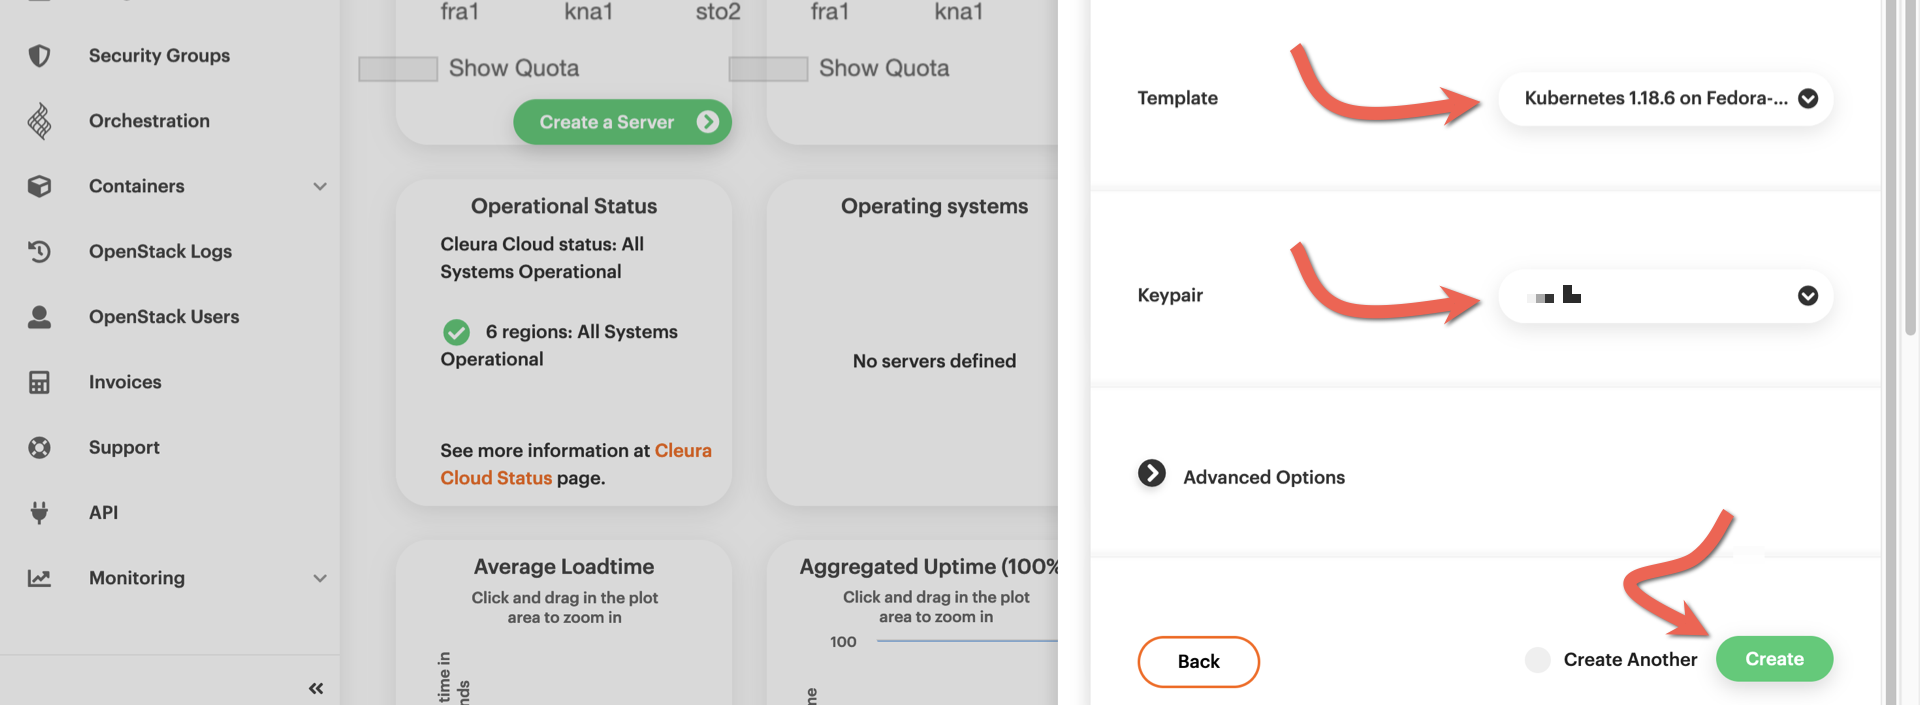
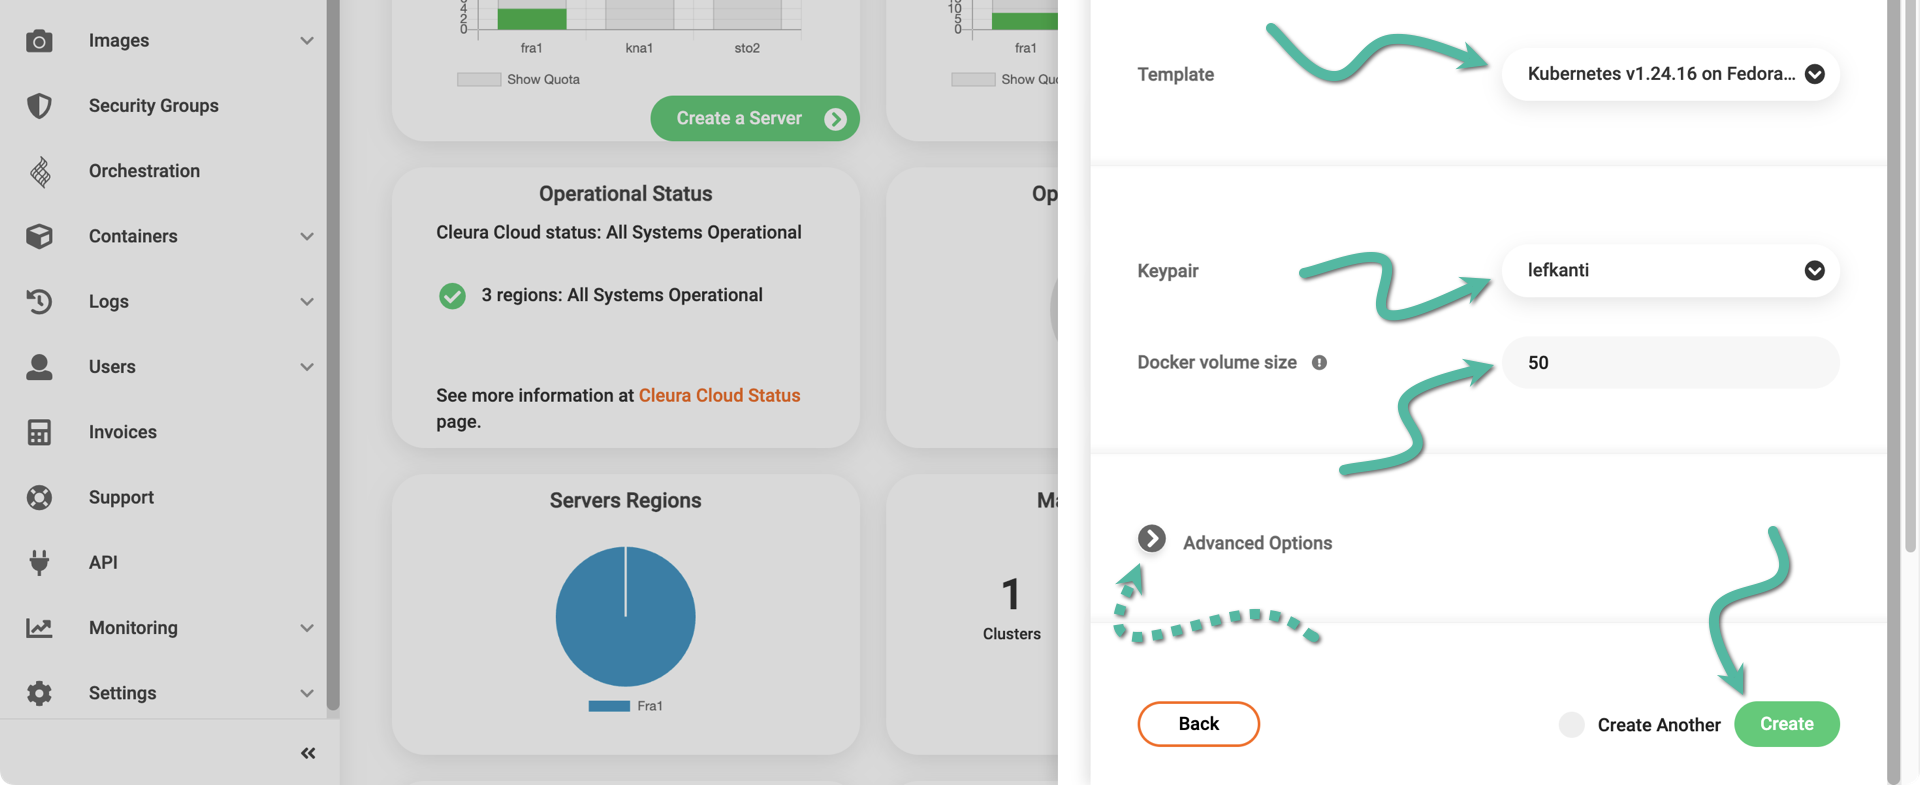
fix: Refresh Magnum cluster creation HowTo
There are new public templates available for creating
Magnum clusters, so we make sure the corresponding
HowTo guide is up-to-date.

diff --git a/docs/howto/openstack/magnum/new-k8s-cluster.md b/docs/howto/openstack/magnum/new-k8s-cluster.md
@@ -45,17 +45,31 @@ package manager of your operating system or `pip`:
 
     ![Name and region](assets/shot-02.png)
 
-    A bit further below, use the drop-down menus to select a template and a
-    keypair for the cluster nodes. Then, click the green *Create* button.
+    A bit further below, use the drop-down menus to select a template and a keypair for the cluster nodes.
+    Notice the *Docker volume size* option which, by default, is set to 50 GiB.
+    This pertains to the size of the extra block device each cluster node will have.
+    That whole storage capacity will be used for saving persistent data.
+    If you believe the default size is too much or too little, change it accordingly.
+    Unless you want to define the number of master nodes or the number of worker nodes, click the green *Create* button now.
 
     ![Select template and keypair](assets/shot-03.png)
 
-    The cluster creation process begins and takes some time to complete.
-    While waiting, bring the vertical pane on the left-hand side of the
-    {{gui}} in full view, select *Magnum* → *Clusters*, and in the main
-    pane, take a look at the creation progress. You can tell when the whole
-    process is complete by the icon at the left of the cluster row, or by
-    the text in the *Status* column.
+    If you do want to play with the aforementioned parameters, then before
+    clicking the *Create* button go ahead and expand the *Advanced Options*
+    section. Since the new cluster templates come with the master load
+    balancer enabled by default, you might want to equip your new cluster
+    with 3 master nodes. Optionally, increase the number of worker nodes
+    from 1 (the default) to, say, 3. Contrary to the number of master nodes,
+    you may change the number of worker nodes *after* the cluster is created.
+
+    ![Cluster creation in progress](assets/shot-03.1.png)
+
+    When the cluster creation process begins, please keep in mind that it
+    takes some time to complete. While waiting, bring the vertical pane on
+    the left-hand side of the {{gui}} in full view, select
+    *Magnum* → *Clusters*, and in the main pane, take a look at the creation
+    progress. You can tell when the whole process is complete by the animated
+    icon at the left of the cluster row.
 
     ![Magnum cluster ready](assets/shot-04.png)
 === "OpenStack CLI"
@@ -66,86 +80,128 @@ package manager of your operating system or `pip`:
     openstack coe cluster create \
         --cluster-template $CLUSTER_TMPL \
         --keypair $KEYPAIR \
+        --docker-volume-size $PERSIST_VOL_SIZE \
         $CLUSTER_NAME
     ```
 
-    You can now list all available templates in the region:
+    First, list all available templates in the region:
 
-    ```bash
-    openstack coe cluster template list
+    ```console
+    $ openstack coe cluster template list
+    +--------------------------------------+---------------------------------------------+------+
+    | uuid                                 | name                                        | tags |
+    +--------------------------------------+---------------------------------------------+------+
+    | 3f476f01-b3de-4687-a188-6829ed947db0 | Kubernetes 1.15.5 on Fedora-atomic 29       | None |
+    |                                      | 4C-8GB-20GB No Master LB                    |      |
+    | c458f02d-54b0-4ef8-abbc-e1c25b61165a | Kubernetes 1.15.5 on Fedora-atomic 29       | None |
+    |                                      | 2C-4GB-20GB No Master LB                    |      |
+    | f9e1a2ea-b1ff-43e7-8d1e-6dd5861b82cf | Kubernetes 1.18.6 on Fedora-coreos 33       | None |
+    |                                      | 2C-4GB-20GB No Master LB                    |      |
+    | 59bd894b-0f5f-4a6e-98d3-a3eb7040faab | Kubernetes v1.23.3 on Fedora-coreos 35      | None |
+    | 9ca03308-996e-4eaa-b507-5730dcc19fcc | Kubernetes v1.24.16 on Fedora-coreos 37     | None |
+    +--------------------------------------+---------------------------------------------+------+
     ```
 
-    ```plain
-    +--------------------------------------+----------------------------------------------------------------+------+
-    | uuid                                 | name                                                           | tags |
-    +--------------------------------------+----------------------------------------------------------------+------+
-    | 3f476f01-b3de-4687-a188-6829ed947db0 | Kubernetes 1.15.5 on Fedora-atomic 29 4C-8GB-20GB No Master LB | None |
-    | c458f02d-54b0-4ef8-abbc-e1c25b61165a | Kubernetes 1.15.5 on Fedora-atomic 29 2C-4GB-20GB No Master LB | None |
-    | f9e1a2ea-b1ff-43e7-8d1e-6dd5861b82cf | Kubernetes 1.18.6 on Fedora-coreos 33 2C-4GB-20GB No Master LB | None |
-    +--------------------------------------+----------------------------------------------------------------+------+
-    ```
+    Select the template you want by setting the corresponding `name`
+    value to the `CLUSTER_TMPL` variable:
 
-    Select the template you want by setting the corresponding `uuid`
-    value to the  `CLUSTER_TMPL` variable:
-
-    ```bash
-    CLUSTER_TMPL="f9e1a2ea-b1ff-43e7-8d1e-6dd5861b82cf" # just an example
+    ```console
+    $ CLUSTER_TMPL="Kubernetes v1.24.16 on Fedora-coreos 37"
     ```
 
     Then, list all available keypairs...
 
-    ```bash
-    openstack keypair list
+    ```console
+    $ openstack keypair list
+    +----------+-------------------------------------------------+------+
+    | Name     | Fingerprint                                     | Type |
+    +----------+-------------------------------------------------+------+
+    | lefkanti | e7:e9:c5:95:ee:7b:72:37:3c:89:c5:fc:6e:8c:a1:72 | ssh  |
+    +----------+-------------------------------------------------+------+
     ```
 
-    ```plain
-    +---------+-------------------------------------------------+------+
-    | Name    | Fingerprint                                     | Type |
-    +---------+-------------------------------------------------+------+
-    | husavik | 34:3b:58:ba:ec:95:f5:17:17:df:04:38:11:89:e6:3d | ssh  |
-    +---------+-------------------------------------------------+------+
-    ```
-
-    ...and set the `KEYPAIR` variable to the name of the keypair you
+    ...and set the `KEYPAIR` variable to the `Name` of the keypair you
     want:
 
-    ```bash
-    KEYPAIR="husavik" # again, this is just an example
+    ```console
+    $ KEYPAIR="lefkanti" # this is just an example
     ```
 
+    Besides the OS disk, all cluster nodes have an extra disk for permanently storing application data.
+    The size of this extra disk is specified during cluster creation via the `--docker-volume-size` parameter.
+    Staying loyal to the theme of setting parameters via shell variables, decide on the size of this extra volume like so:
+
+    ```console
+    $ PERSIST_VOL_SIZE=50
+    ```
+
+    The size is expressed in Gibibytes, and in the example above, we decided to go with a 50GiB extra volume.
     Finally, decide on a name for your new Kubernetes cluster:
 
-    ```bash
-    CLUSTER_NAME="bangor"
+    ```console
+    $ CLUSTER_NAME="bangor"
     ```
 
     With everything in place, go ahead and create your new Kubernetes
-    cluster:
+    cluster like so:
 
-    ```bash
-    openstack coe cluster create \
-        --cluster-template $CLUSTER_TMPL \
-        --keypair husavik
-        bangor
+    ```console
+    $ openstack coe cluster create \
+        --cluster-template "$CLUSTER_TMPL" \
+        --keypair $KEYPAIR \
+        --docker-volume-size $PERSIST_VOL_SIZE \
+        $CLUSTER_NAME
     ```
 
-    If everything went well with your request for a new cluster, on your
-    terminal, you would see a message like the following:
+    New Magnum clusters start with 1 master node and 1 worker node by default.
+    Since the new cluster templates have the master load balancer enabled,
+    you might want to give your cluster 3 master nodes from the get-go.
+    Optionally, you can increase the number of worker nodes from 1 to 3 or to 5.
+    Contrary to the number of master nodes, you can always change the number of
+    worker nodes *after* the cluster is created. So, to start the new cluster
+    with 3 master nodes and 5 worker nodes, type the following:
+
+    ```console
+    $ openstack coe cluster create \
+        --cluster-template "$CLUSTER_TMPL" \
+        --keypair $KEYPAIR \
+        --docker-volume-size $PERSIST_VOL_SIZE \
+        --master-count 3 \
+        --node-count 3 \
+        $CLUSTER_NAME
+    ```
+
+    In any case, if everything went well with your request for a new cluster,
+    on the terminal, you will see a message like the following:
 
     ```plain
-    Request to create cluster e0df8c62-c6f6-4c7d-b67e-33e3606e9ab6 accepted
+    Request to create cluster 7ca7838a-aa33-4259-8784-02e5941a2cf0 accepted
     ```
 
     The cluster creation process takes some time to complete, and while
     you are waiting, you can check if everything is progressing smoothly:
 
-    ```bash
-    openstack coe cluster list -c status
+    ```console
+    $ openstack coe cluster list -c status
+    +--------------------+
+    | status             |
+    +--------------------+
+    | CREATE_IN_PROGRESS |
+    +--------------------+
     ```
 
     If everything is going well, the message you will get will be
     `CREATE_IN_PROGRESS`. When Magnum has finished creating the cluster, the
     message will be `CREATE_COMPLETE`.
+
+    ```console
+    $ openstack coe cluster list -c status
+    +-----------------+
+    | status          |
+    +-----------------+
+    | CREATE_COMPLETE |
+    +-----------------+
+    ```
 
 ## Viewing the Kubernetes cluster
 
@@ -160,49 +216,45 @@ get detailed information about it.
 
     ![Cluster row](assets/shot-05.png)
 
-    To get more information on the cluster, just click on its row.
-    Then, all relative information is displayed below the row.
+    To see more of the cluster, just click on its row.
+    Then, all relative information will appear below.
 
     ![Cluster info](assets/shot-06.png)
 === "OpenStack CLI"
     To list all available Kubernetes clusters, type:
 
-    ```bash
-    openstack coe cluster list
+    ```console
+    $ openstack coe cluster list
+    +---------------+--------+----------+------------+--------------+---------------+---------------+
+    | uuid          | name   | keypair  | node_count | master_count | status        | health_status |
+    +---------------+--------+----------+------------+--------------+---------------+---------------+
+    | 7ca7838a-     | bangor | lefkanti |          1 |            1 | CREATE_COMPLE | HEALTHY       |
+    | aa33-4259-    |        |          |            |              | TE            |               |
+    | 8784-         |        |          |            |              |               |               |
+    | 02e5941a2cf0  |        |          |            |              |               |               |
+    +---------------+--------+----------+------------+--------------+---------------+---------------+
     ```
 
-    ```plain
-    +---------------+--------+---------+------------+--------------+---------------+---------------+
-    | uuid          | name   | keypair | node_count | master_count | status        | health_status |
-    +---------------+--------+---------+------------+--------------+---------------+---------------+
-    | e0df8c62-c6f6 | bangor | husavik |          1 |            1 | CREATE_COMPLE | HEALTHY       |
-    | -4c7d-b67e-33 |        |         |            |              | TE            |               |
-    | e3606e9ab6    |        |         |            |              |               |               |
-    +---------------+--------+---------+------------+--------------+---------------+---------------+
-    ```
+    For many more details on a specific cluster, issue a command like this:
 
-    For many more details on a specific cluster, note its name and run a
-    command like this:
-
-    ```bash
-    openstack coe cluster show bangor
-    ```
-
-    ```plain
+    ```console
+    $ openstack coe cluster show $CLUSTER_NAME
     +----------------------+---------------------------------------------------------------------------+
     | Field                | Value                                                                     |
     +----------------------+---------------------------------------------------------------------------+
     | status               | CREATE_COMPLETE                                                           |
     | health_status        | HEALTHY                                                                   |
-    | cluster_template_id  | f9e1a2ea-b1ff-43e7-8d1e-6dd5861b82cf                                      |
-    | node_addresses       | ['192.0.2.105']                                                           |
-    | uuid                 | e0df8c62-c6f6-4c7d-b67e-33e3606e9ab6                                      |
-    | stack_id             | e3725aed-f665-4e8d-9409-85f5ee5e2f4a                                      |
+    | cluster_template_id  | 9ca03308-996e-4eaa-b507-5730dcc19fcc                                      |
+    | node_addresses       | ['198.51.100.5']                                                          |
+    | uuid                 | 7ca7838a-aa33-4259-8784-02e5941a2cf0                                      |
+    | stack_id             | 923c938a-81cd-4a0d-b645-0681ff507bc5                                      |
     | status_reason        | None                                                                      |
-    | created_at           | 2022-11-14T07:32:02+00:00                                                 |
-    | updated_at           | 2022-11-14T07:37:26+00:00                                                 |
-    | coe_version          | v1.18.6                                                                   |
-    | labels               | {'kube_tag': 'v1.18.6', 'heat_container_agent_tag': 'train-stable'}       |
+    | created_at           | 2024-07-05T12:00:41+00:00                                                 |
+    | updated_at           | 2024-07-05T12:08:52+00:00                                                 |
+    | coe_version          | v1.24.16-rancher1                                                         |
+    | labels               | {'container_runtime': 'containerd', 'cinder_csi_enabled': 'True',         |
+    |                      | 'cloud_provider_enabled': 'True', 'docker_volume_size': '20', 'kube_tag': |
+    |                      | 'v1.24.16-rancher1', 'hyperkube_prefix': 'docker.io/rancher/'}            |
     | labels_overridden    | {}                                                                        |
     | labels_skipped       | {}                                                                        |
     | labels_added         | {}                                                                        |
@@ -210,20 +262,20 @@ get detailed information about it.
     | fixed_subnet         | None                                                                      |
     | floating_ip_enabled  | True                                                                      |
     | faults               |                                                                           |
-    | keypair              | husavik                                                                   |
-    | api_address          | https://192.0.2.136:6443                                                  |
-    | master_addresses     | ['192.0.2.136']                                                           |
-    | master_lb_enabled    | False                                                                     |
+    | keypair              | lefkanti                                                                  |
+    | api_address          | https://203.0.113.129:6443                                                |
+    | master_addresses     | ['203.0.113.144']                                                         |
+    | master_lb_enabled    | True                                                                      |
     | create_timeout       | 60                                                                        |
     | node_count           | 1                                                                         |
-    | discovery_url        | https://discovery.etcd.io/23af721dc3ee773d2674db4881ff70cb                |
+    | discovery_url        | https://discovery.etcd.io/f1473529bd109bea2fb02ac936497b95                |
     | docker_volume_size   | 50                                                                        |
     | master_count         | 1                                                                         |
     | container_version    | 1.12.6                                                                    |
     | name                 | bangor                                                                    |
-    | master_flavor_id     | 2C-4GB-20GB                                                               |
-    | flavor_id            | 2C-4GB-20GB                                                               |
-    | health_status_reason | {'bangor-id6nijycp2wy-master-0.Ready': 'True', 'bangor-id6nijycp2wy-      |
+    | master_flavor_id     | b.2c4gb                                                                   |
+    | flavor_id            | b.4c24gb                                                                  |
+    | health_status_reason | {'bangor-xh3fuqin3arw-master-0.Ready': 'True', 'bangor-xh3fuqin3arw-      |
     |                      | node-0.Ready': 'True', 'api': 'ok'}                                       |
     | project_id           | dfc700467396428bacba4376e72cc3e9                                          |
     +----------------------+---------------------------------------------------------------------------+

diff --git a/docs/howto/kubernetes/magnum/index.md b/docs/howto/kubernetes/magnum/index.md
@@ -2,14 +2,14 @@
 
 Magnum lets you create clusters via the OpenStack APIs. To do that,
 you base your configuration on a Cluster Template. The template
-defines parameters describing how the cluster will be constructed,
-such as worker flavors. In each region, we offer predefined public
-Cluster Templates with ready-to-use configurations.  To learn more
+defines parameters, such as worker flavors, which describe how the
+cluster will be constructed. In each region, we offer predefined public
+Cluster Templates with ready-to-use configurations. To learn more
 about Cluster Templates, check out the [Magnum
 documentation](https://docs.openstack.org/magnum/latest/user/#clustertemplate).
 
 Once you have chosen your Cluster Template, you move on to [create a
 cluster based on that
-template](../../openstack/magnum/new-k8s-cluster.md).  When you create
-the cluster, you can define the number of nodes in your cluster, ask
-for multiple master nodes with a load balancer in front, etc.
+template](../../openstack/magnum/new-k8s-cluster.md). When you create
+the cluster, you can define the number of nodes, ask
+for multiple masters behind a load balancer, etc.
